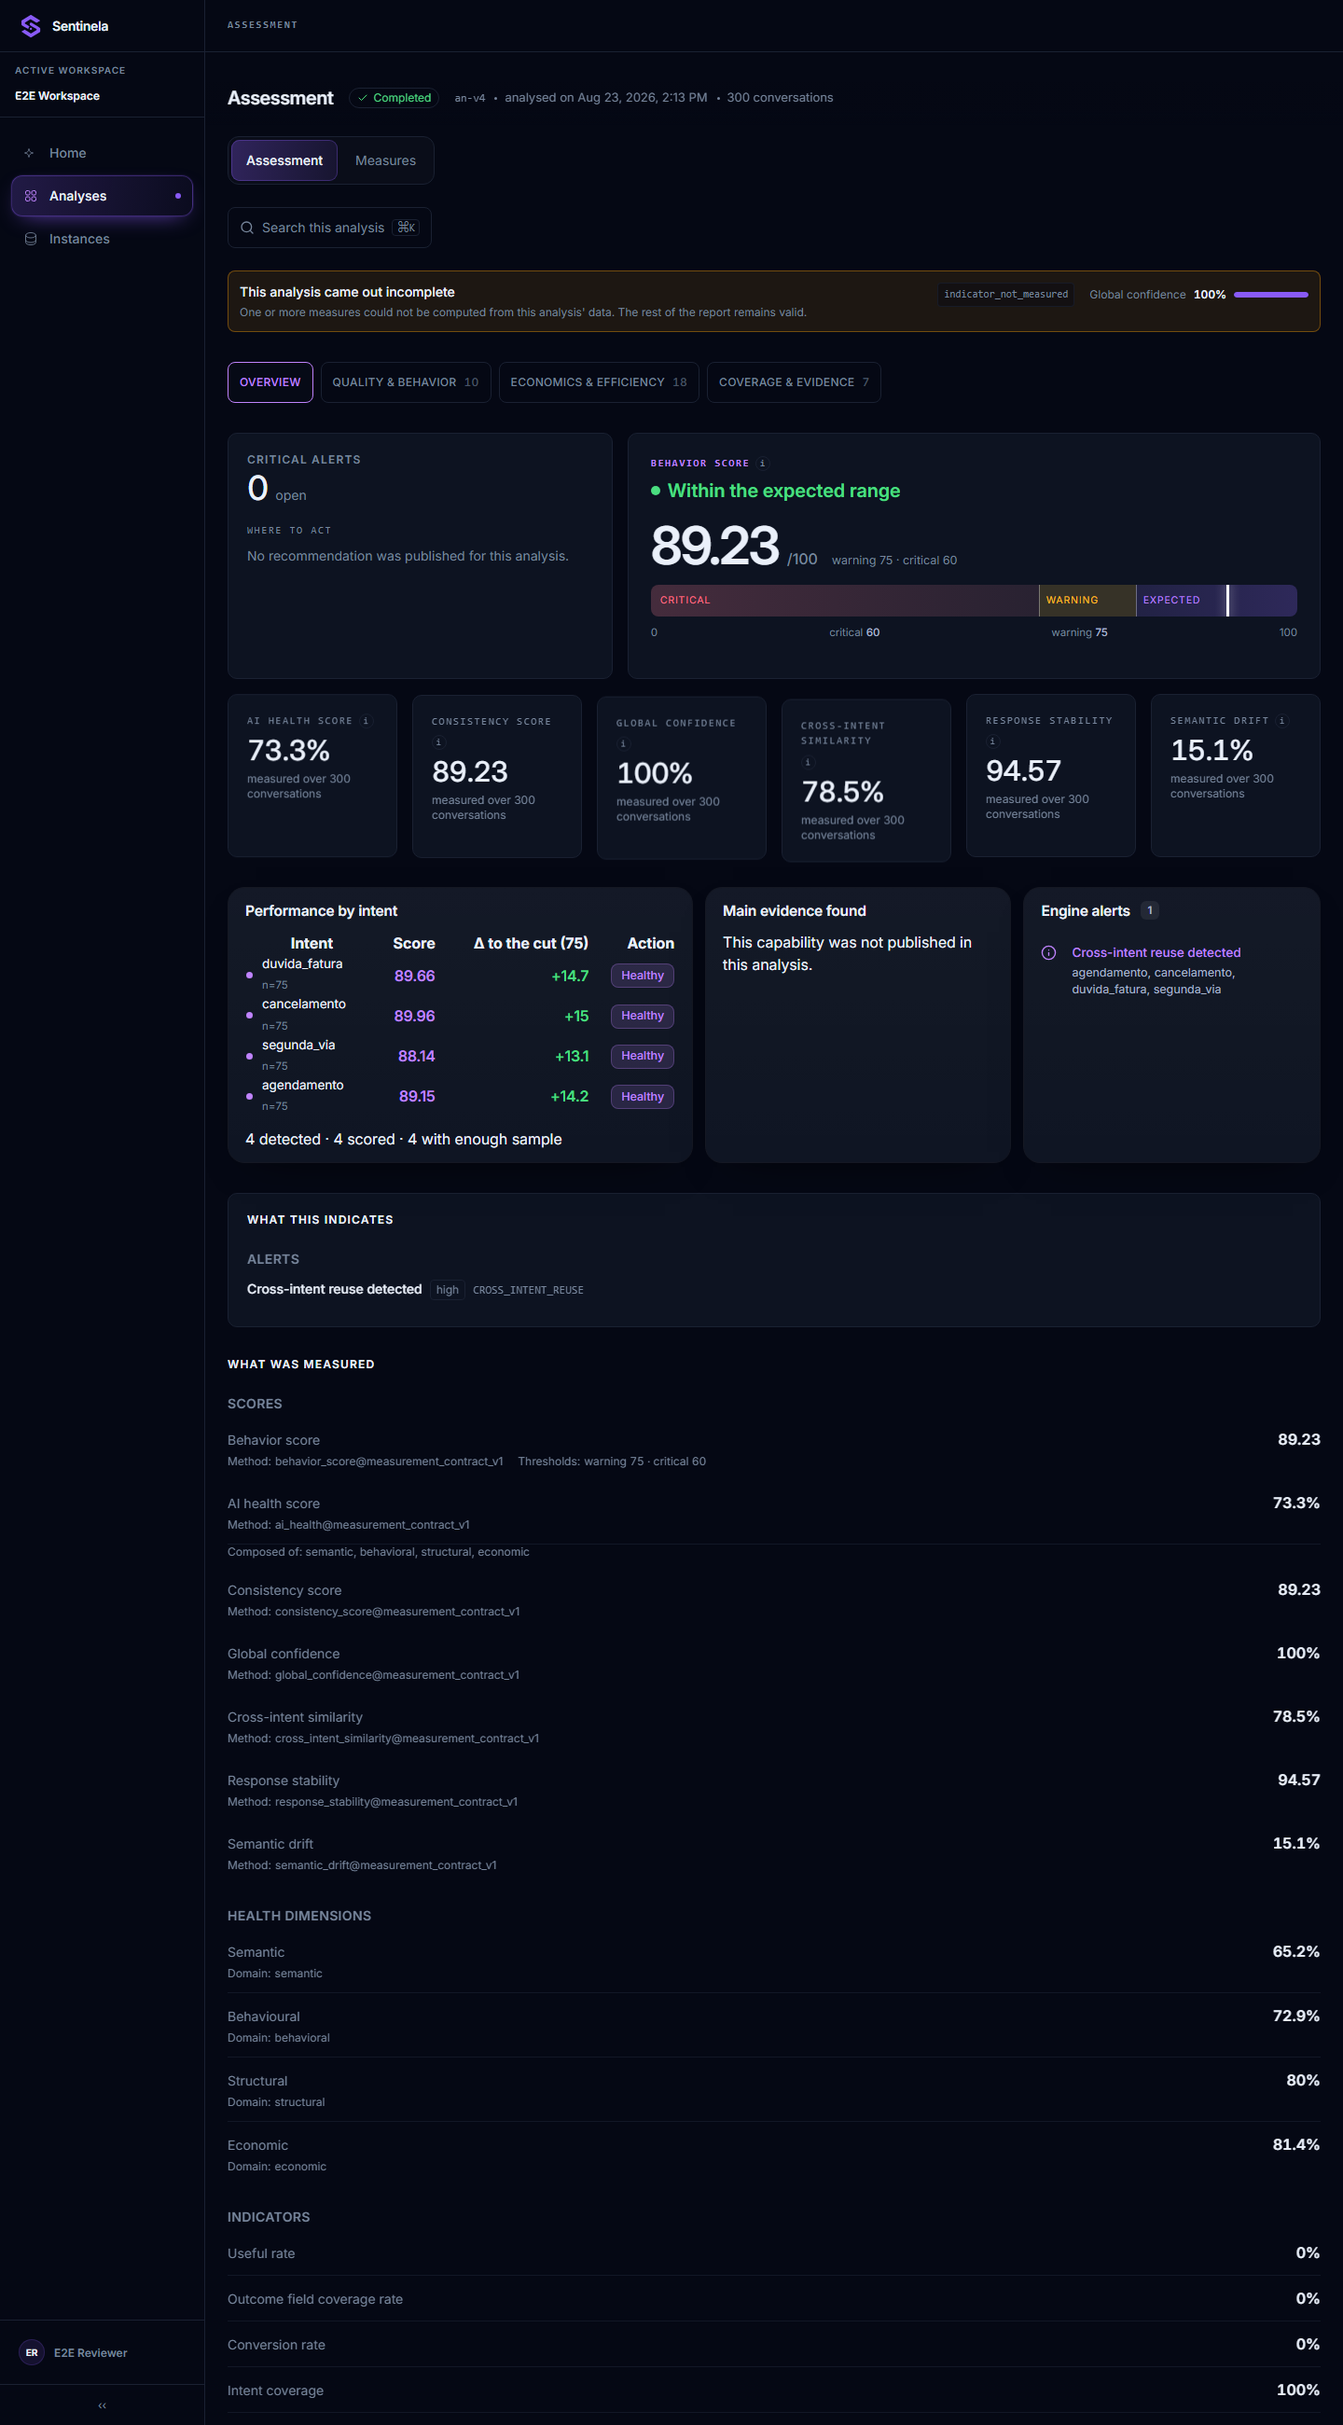
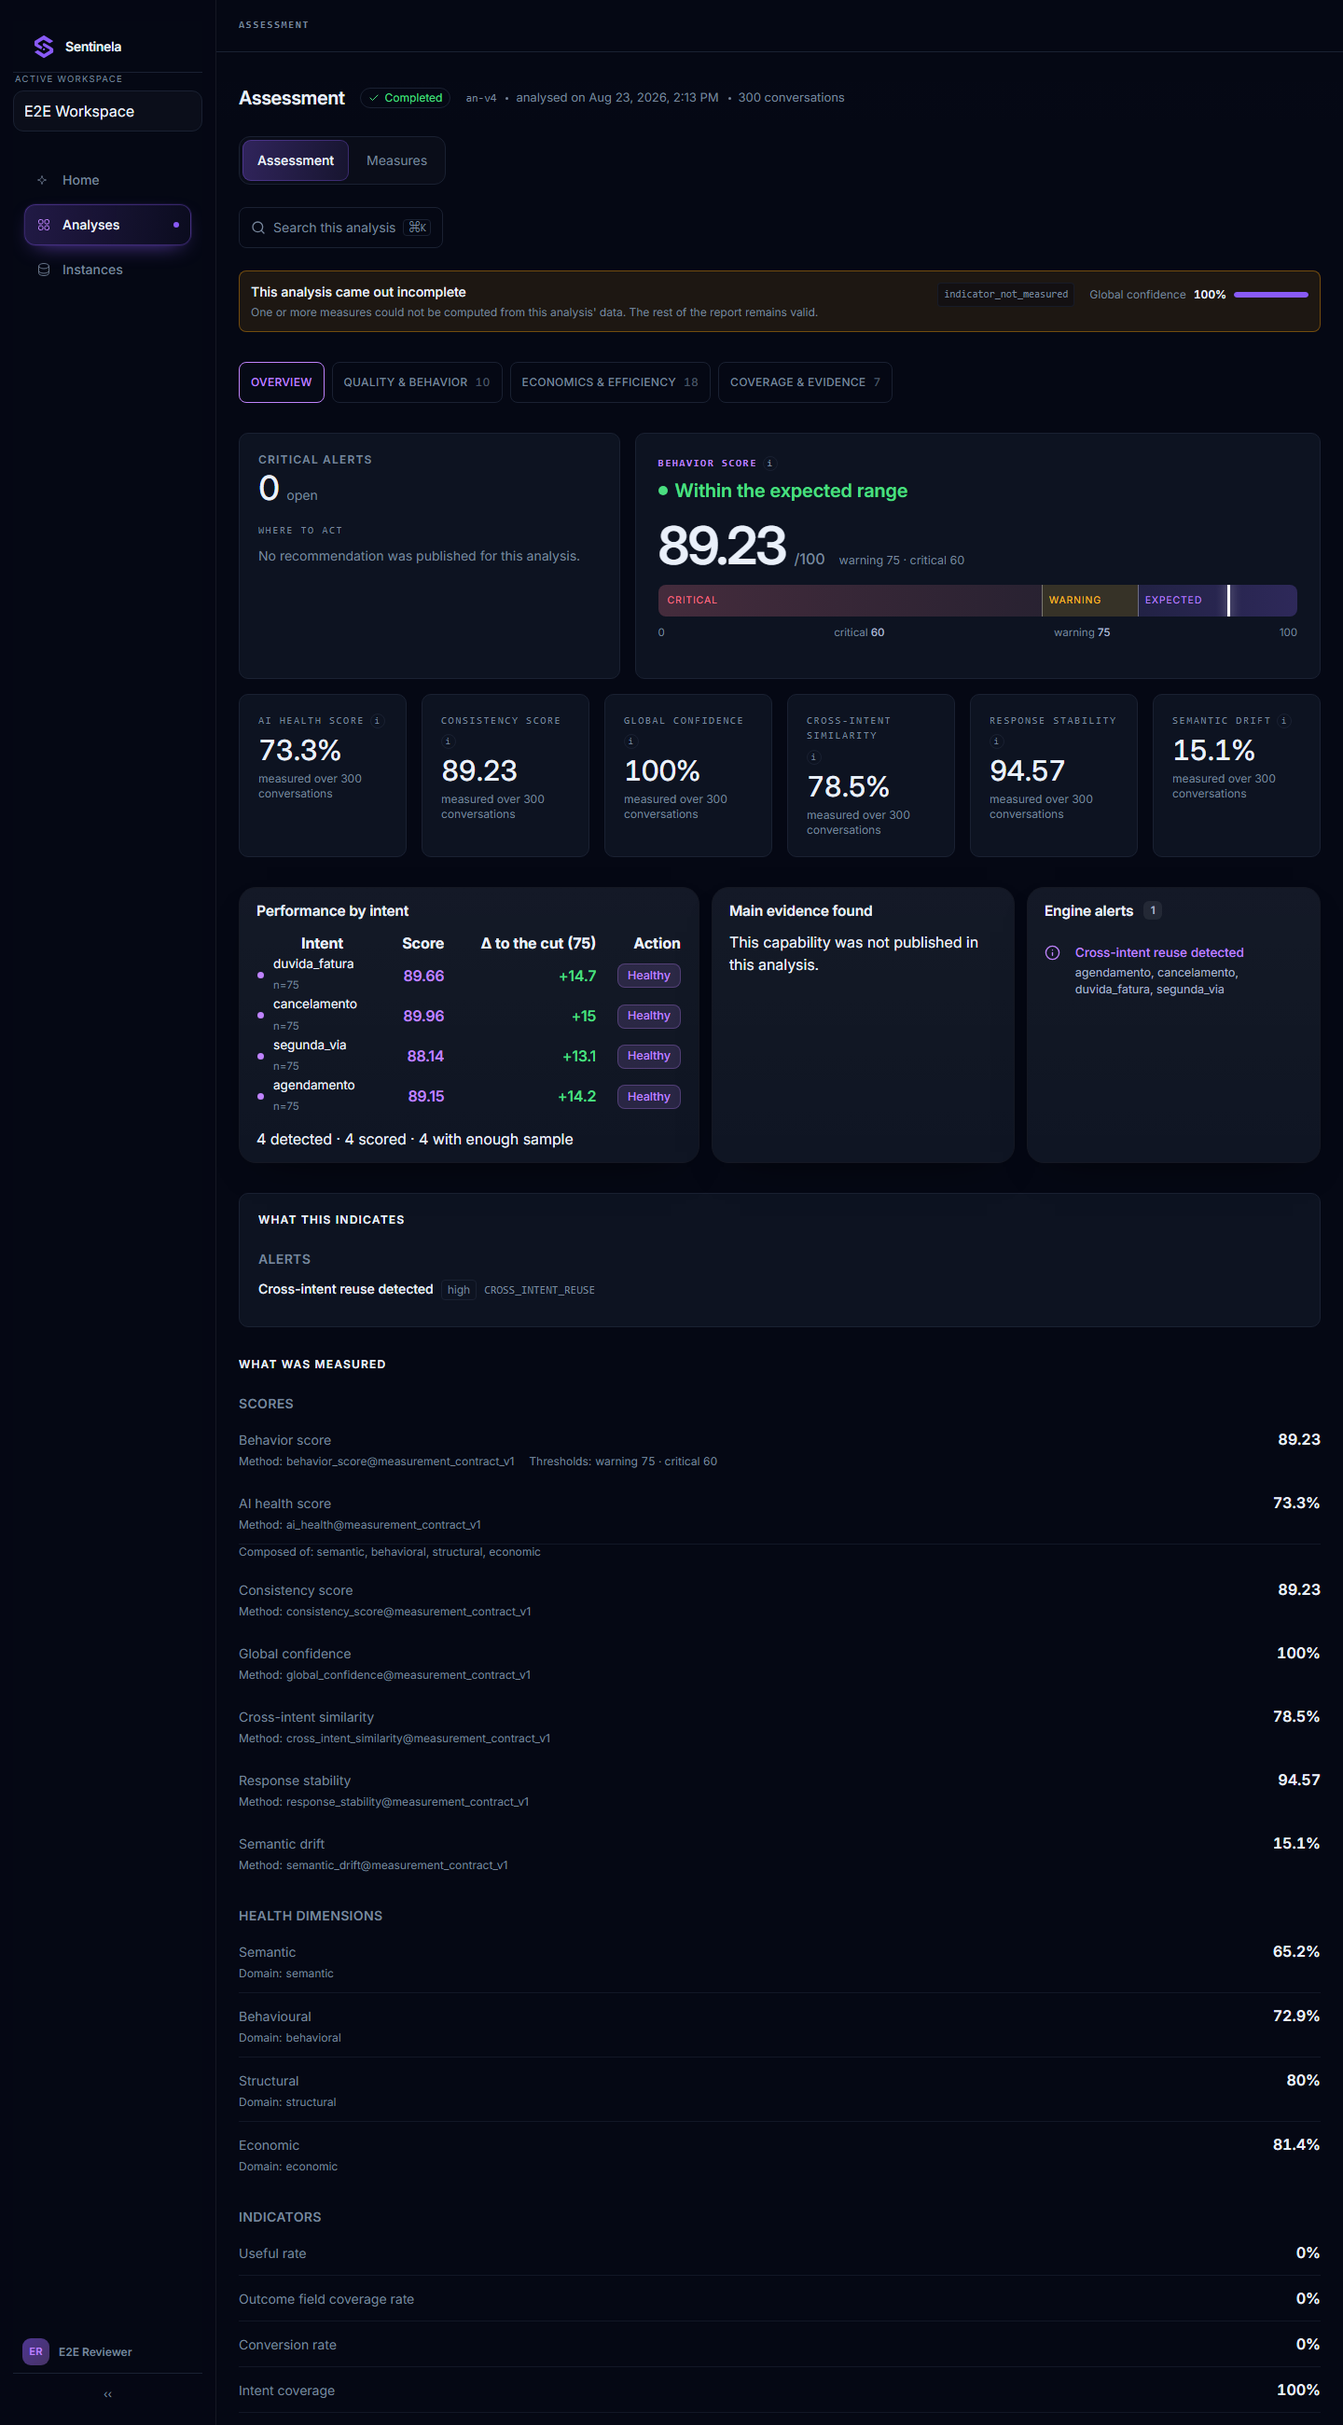
A lateral da V4, e uma grade que recebeu altura demais
39 regras do `CSS_LATERAL` do molde, mesma traducao das tres folhas anteriores. Dois valores
precisaram de decisao propria:

  o fundo da barra    A V4 usa #060A16 a 55% — translucido, para o halo do fundo atravessar.
                      Vira --ds-surface-base com a mesma alfa: mesmo efeito, sem um segundo azul.
  o fundo do popover  A V4 usa #0B1120, que e MAIS ESCURO que o painel sobre o qual ele flutua.
                      Vira --ds-surface-overlay, pela regra desta escada: elevacao nunca
                      escurece. E a mesma correcao que a paleta ja tinha recebido.

## As medidas mudaram, e nao por gosto

232px aberta e 72px recolhida, contra 220 e 60. Em 60px um alvo de 44 nao cabe com respiro dos
dois lados, e a barra recolhida era o unico lugar do produto onde o icone encostava na borda.

## O workspace virou um BLOCO

Ele sempre foi clicavel — troca de tenant — e nao parecia: um rotulo minusculo sobre um nome,
separados do resto por um fio. Agora e um cartao com borda e hover, que e o que ele e.

## O que quebrou, e o que estava por tras

A folha declara `.lateral nav { display:grid; gap:2px }`. No molde o `nav` tem altura natural;
aqui ele e `flex-1` dentro de uma coluna de altura de tela — e uma grade que RECEBE altura
distribui as linhas por ela.

Medido na captura: os tres itens espalhados do topo ao pe, e o item ativo pintando um retangulo
de ~600px com o gradiente inteiro dentro. `align-content:start` devolve a altura natural sem
[…]

diff --git a/src/styles/globals.css b/src/styles/globals.css
@@ -1191,3 +1191,117 @@
 .v4-medidas table.retido td.q { padding-left:18px; font-size:11.5px; }
 .v4-medidas .nota-retido { margin:12px 0 0; font-size:12px; line-height:1.6; color:hsl(var(--ds-text-muted)); }
 .v4-medidas .nota-retido b { color:hsl(var(--ds-text-primary)); font-weight:600; }
+
+/* ═══════════════════════════════════════════════════════════════════════════════════════════
+   A LATERAL DA V4
+
+   Mesma traducao das outras duas folhas. Dois valores a mais precisaram de decisao:
+
+     o fundo da barra   A V4 usa `#060A16` a 55% — um azul quase igual a base, translucido
+                        sobre o gradiente do fundo. Vira `--ds-surface-base` com a mesma alfa:
+                        e o mesmo efeito (a barra deixa o halo passar) sem um segundo azul.
+     o fundo do popover A V4 usa `#0B1120`, que e MAIS ESCURO que o painel sobre o qual ele
+                        flutua. Vira `--ds-surface-overlay`, pela regra desta escada: elevacao
+                        nunca escurece. A mesma correcao ja foi feita quando a paleta entrou.
+
+   Escopo `.v4-lateral`, posto no proprio `aside`.
+   ═══════════════════════════════════════════════════════════════════════════════════════════ */
+.v4-lateral { display:flex; flex-direction:column; padding:22px 14px 12px;
+  border-right:1px solid hsl(var(--ds-border-subtle)); background:hsl(var(--ds-surface-base) / 0.55); overflow:visible;
+  min-width:0; }
+.v4-lateral[data-recolhida="true"] { padding-left:10px; padding-right:10px; }
+.v4-lateral .so-leitor { position:absolute; width:1px; height:1px; padding:0; margin:-1px;
+  overflow:hidden; clip:rect(0 0 0 0); white-space:nowrap; border:0; }
+
+.v4-lateral .marca { display:flex; align-items:center; gap:12px; padding:0 6px 20px; }
+.v4-lateral[data-recolhida="true"] .marca { justify-content:center; padding-left:0;
+  padding-right:0; }
+.v4-lateral .marca .glifo { display:grid; grid-template-columns:repeat(3,4px); gap:3px; flex:none; }
+.v4-lateral .marca .glifo i { width:4px; height:4px; border-radius:1px; background:hsl(var(--ds-accent-ink));
+  display:block; }
+.v4-lateral .marca .glifo i:nth-child(2),.v4-lateral .marca .glifo i:nth-child(4),
+.v4-lateral .marca .glifo i:nth-child(6),.v4-lateral .marca .glifo i:nth-child(8) { background:hsl(var(--ds-accent));
+  opacity:.55; }
+.v4-lateral .marca .nome-marca { font-size:14px; font-weight:600; letter-spacing:.16em;
+  color:hsl(var(--ds-text-primary)); white-space:nowrap; }
+.v4-lateral[data-recolhida="true"] .nome-marca { position:absolute; width:1px; height:1px;
+  overflow:hidden; clip:rect(0 0 0 0); }
+
+/* ── workspace ─────────────────────────────────────────────────────────────────────────── */
+.v4-lateral .ws { position:relative; margin-bottom:14px; }
+.v4-lateral .ws-gatilho { display:block; width:100%; text-align:left; padding:9px 11px;
+  border-radius:11px; border:1px solid hsl(var(--ds-border-default)); background:rgba(255,255,255,.028);
+  color:hsl(var(--ds-text-primary)); font:inherit; cursor:pointer; transition:background var(--ds-duration-base) var(--ds-easing-standard); }
+.v4-lateral .ws-gatilho:hover { background:rgba(255,255,255,.055); }
+.v4-lateral .ws-gatilho .rot { display:block; font-size:9.5px; letter-spacing:.13em;
+  text-transform:uppercase; color:hsl(var(--ds-text-muted)); }
+.v4-lateral .ws-gatilho .val { display:flex; align-items:center; justify-content:space-between;
+  gap:8px; margin-top:3px; font-size:13px; font-weight:500; }
+
+.v4-lateral .pop { position:absolute; z-index:60; left:0; right:0; top:calc(100% + 6px);
+  padding:5px; border-radius:12px; border:1px solid hsl(var(--ds-border-default));
+  background:hsl(var(--ds-surface-overlay)); box-shadow:0 24px 60px -22px hsl(0 0% 0%); display:grid; gap:2px; }
+.v4-lateral .pop.acima { top:auto; bottom:calc(100% + 6px); }
+.v4-lateral .pop button { display:flex; align-items:center; gap:9px; width:100%; text-align:left;
+  min-height:34px; padding:6px 10px; border:none; border-radius:8px; background:none;
+  color:hsl(var(--ds-text-secondary)); font:inherit; font-size:13px; cursor:pointer; }
+.v4-lateral .pop button:hover { background:rgba(255,255,255,.06); color:hsl(var(--ds-text-primary)); }
+.v4-lateral .pop button[aria-checked="true"] { color:hsl(var(--ds-accent-ink)); }
+.v4-lateral .pop button small { display:block; font-size:10.5px; color:hsl(var(--ds-text-muted)); margin-top:1px; }
+
+/* ── itens ─────────────────────────────────────────────────────────────────────────────── */
+.v4-lateral nav { display:grid; gap:2px; }
+.v4-lateral[data-recolhida="true"] .item { justify-content:center; padding-left:0;
+  padding-right:0; }
+.v4-lateral .item .ponto { margin-left:auto; width:5px; height:5px; border-radius:50%;
+  background:hsl(var(--ds-accent-ink)); display:block; flex:none; }
+
+/* ── usuário ───────────────────────────────────────────────────────────────────────────── */
+.v4-lateral .usuario { position:relative; margin-top:auto; padding-top:14px; }
+.v4-lateral .us-gatilho { display:flex; align-items:center; gap:10px; width:100%; min-height:44px;
+  padding:7px 9px; border-radius:11px; border:1px solid transparent; background:none;
+  color:hsl(var(--ds-text-secondary)); font:inherit; cursor:pointer; text-align:left;
+  transition:background var(--ds-duration-base) var(--ds-easing-standard); }
+.v4-lateral .us-gatilho:hover { background:rgba(255,255,255,.045); }
+.v4-lateral .us-gatilho .ini { display:grid; place-items:center; width:29px; height:29px; flex:none;
+  border-radius:9px; font-size:11px; font-weight:600; letter-spacing:.04em; color:hsl(var(--ds-accent-ink));
+  background:linear-gradient(135deg, hsl(var(--ds-accent) / 0.55), hsl(var(--ds-accent-ink) / 0.35)); }
+.v4-lateral .us-gatilho .quem { min-width:0; flex:1; }
+.v4-lateral .us-gatilho .quem b { display:block; font-size:12.5px; font-weight:500; color:hsl(var(--ds-text-primary));
+  overflow:hidden; text-overflow:ellipsis; white-space:nowrap; }
+.v4-lateral .us-gatilho .quem small { display:block; font-size:10.5px; color:hsl(var(--ds-text-muted));
+  overflow:hidden; text-overflow:ellipsis; white-space:nowrap; }
+
+.v4-lateral .recolher { display:flex; align-items:center; justify-content:center; min-height:36px;
+  margin-top:10px; border:none; border-top:1px solid hsl(var(--ds-border-subtle)); background:none;
+  color:hsl(var(--ds-text-muted)); cursor:pointer; transition:color var(--ds-duration-base) var(--ds-easing-standard), background var(--ds-duration-base) var(--ds-easing-standard); }
+.v4-lateral .recolher:hover { color:hsl(var(--ds-text-primary)); background:rgba(255,255,255,.04); }
+
+/* ── superfície não desenhada ──────────────────────────────────────────────────────────── */
+.v4-lateral .fora { max-width:520px; margin:16vh auto 0; text-align:center; color:hsl(var(--ds-text-muted)); }
+.v4-lateral .fora svg { color:hsl(var(--ds-accent-ink)); opacity:.8; }
+.v4-lateral .fora p.primeira { margin-top:14px; font-size:14.5px; color:hsl(var(--ds-text-secondary)); }
+.v4-lateral .fora p { margin:0; font-size:13.5px; line-height:1.65; }
+.v4-lateral .fora p.fina { margin-top:14px; font-size:12.5px; color:hsl(var(--ds-text-muted)); }
+.v4-lateral .fora code { font-family:ui-monospace,monospace; font-size:12px; color:hsl(var(--ds-accent-ink)); }
+
+/* A NAV nao estica, e isso teve de ser dito.
+
+   A folha da V4 declara `.lateral nav { display:grid; gap:2px }`, e la o `nav` tem altura
+   natural. Aqui ele e `flex-1` dentro de uma coluna de altura de tela — e uma grade que recebe
+   altura distribui as linhas por ela. Medido na captura: os tres itens espalhados do topo ao
+   pe, e o item ativo pintando um retangulo de 600px com o gradiente inteiro dentro.
+
+   `align-content:start` devolve a altura natural as linhas sem tirar o `flex-1` do nav, que e
+   o que empurra o bloco do usuario para o pe. */
+.v4-lateral nav { align-content:start; }
+
+/* O ROTULO do workspace mora FORA do gatilho neste produto.
+
+   Na V4 ele e filho do botao (`.ws-gatilho .rot`). Aqui o botao carrega so o nome, e o rotulo e
+   um `<p>` irmao — mudar a arvore para casar com o seletor mexeria no que o `WorkspaceSwitcher`
+   anuncia para leitor de tela, que e decisao de outra missao. O seletor e que acompanha. */
+.v4-lateral .ws > .rot {
+  display:block; margin:0 0 5px 2px; font-size:9.5px; letter-spacing:.13em;
+  text-transform:uppercase; color:hsl(var(--ds-text-muted));
+}

diff --git a/src/shell/UserMenu.tsx b/src/shell/UserMenu.tsx
@@ -78,18 +78,18 @@ export function UserMenu({ recolhida = false }: { readonly recolhida?: boolean }
   }
 
   return (
-    <div className="px-3 py-3 border-t border-border">
+    /* `usuario` — `margin-top:auto` empurra o bloco para o pe da coluna, que e onde a V4 o
+       poe. Antes ele dependia de o conteudo acima ser alto o bastante. */
+    <div className="usuario">
       <button
         type="button"
         onClick={() => setAberto((v) => !v)}
         aria-expanded={aberto}
         aria-haspopup="menu"
         aria-label={t("shell.user.menu")}
-        className="w-full flex min-h-11 items-center justify-center gap-2.5 px-2 py-1.5 rounded-xl hover:bg-muted/60 transition-colors focus-visible:outline-none focus-visible:ring-2 focus-visible:ring-ring"
+        className="us-gatilho focus-visible:outline-none focus-visible:ring-2 focus-visible:ring-ring"
       >
-        <span className="w-7 h-7 rounded-full bg-primary/[0.12] border border-primary/20 flex items-center justify-center flex-shrink-0">
-          <span className="text-[10px] font-bold text-foreground">{iniciais(nome)}</span>
-        </span>
+        <span className="ini">{iniciais(nome)}</span>
         {/* Recolhido, sobram as INICIAIS — que já são o avatar. O nome sai da tela e fica no
             `aria-label` do botão, que nunca dependeu dele para ter nome acessível. */}
         {recolhida ? null : (

diff --git a/src/shell/WorkspaceSwitcher.tsx b/src/shell/WorkspaceSwitcher.tsx
@@ -72,8 +72,13 @@ export function WorkspaceSwitcher({ onNavigate }: { onNavigate?: () => void }) {
   // O painel continua util com um so: ele mostra qual e, e oferece criar outro.
 
   return (
-    <div className="px-4 py-3 border-b border-border">
-      <p className="text-[10px] uppercase tracking-widest font-semibold text-muted-foreground mb-1.5">
+    /* `ws` — o workspace deixa de ser TEXTO com uma borda embaixo e vira um BLOCO.
+
+       Ele sempre foi clicavel (troca de tenant), e nao parecia: um rotulo minusculo sobre um
+       nome, separados do resto por um fio. A V4 o desenha como um cartao com borda e hover, que
+       e o que ele e — um controle. */
+    <div className="ws">
+      <p className="rot">
         {t("shell.workspace.label")}
       </p>
 
@@ -83,7 +88,7 @@ export function WorkspaceSwitcher({ onNavigate }: { onNavigate?: () => void }) {
         aria-expanded={aberto}
         aria-haspopup="listbox"
         aria-label={t("shell.workspace.switch")}
-        className="w-full text-left text-xs font-semibold text-foreground truncate leading-tight rounded-lg focus-visible:outline-none focus-visible:ring-2 focus-visible:ring-ring"
+        className="ws-gatilho truncate focus-visible:outline-none focus-visible:ring-2 focus-visible:ring-ring"
       >
         {rotulo}
       </button>

diff --git a/src/shell/Sidebar.tsx b/src/shell/Sidebar.tsx
@@ -203,9 +203,14 @@ export function Sidebar() {
     // mesmo defeito das telas de Conta e Perfil, alcançáveis só por endereço digitado.
     <aside
       data-recolhida={recolhida ? "true" : "false"}
+      /* `v4-lateral` e o escopo da folha portada do Molde (ver `globals.css`).
+
+         As MEDIDAS tambem sao da V4: 232px aberta e 72px recolhida, contra 220 e 60. Nao e
+         gosto — 60px nao cabe um alvo de 44px com respiro dos dois lados, e a barra recolhida
+         era o unico lugar do produto onde o icone encostava na borda. */
       className={`${
-        recolhida ? "w-[60px]" : "w-[220px]"
-      } flex-shrink-0 h-screen sticky top-0 hidden md:flex flex-col border-r border-border transition-[width] duration-200`}
+        recolhida ? "w-[72px]" : "w-[232px]"
+      } v4-lateral flex-shrink-0 h-screen sticky top-0 hidden md:flex flex-col transition-[width] duration-200`}
     >
       <SidebarContent recolhida={recolhida} />
       {/* O gatilho fica no PÉ e sempre visível, aberta ou recolhida. No topo ele disputaria com
